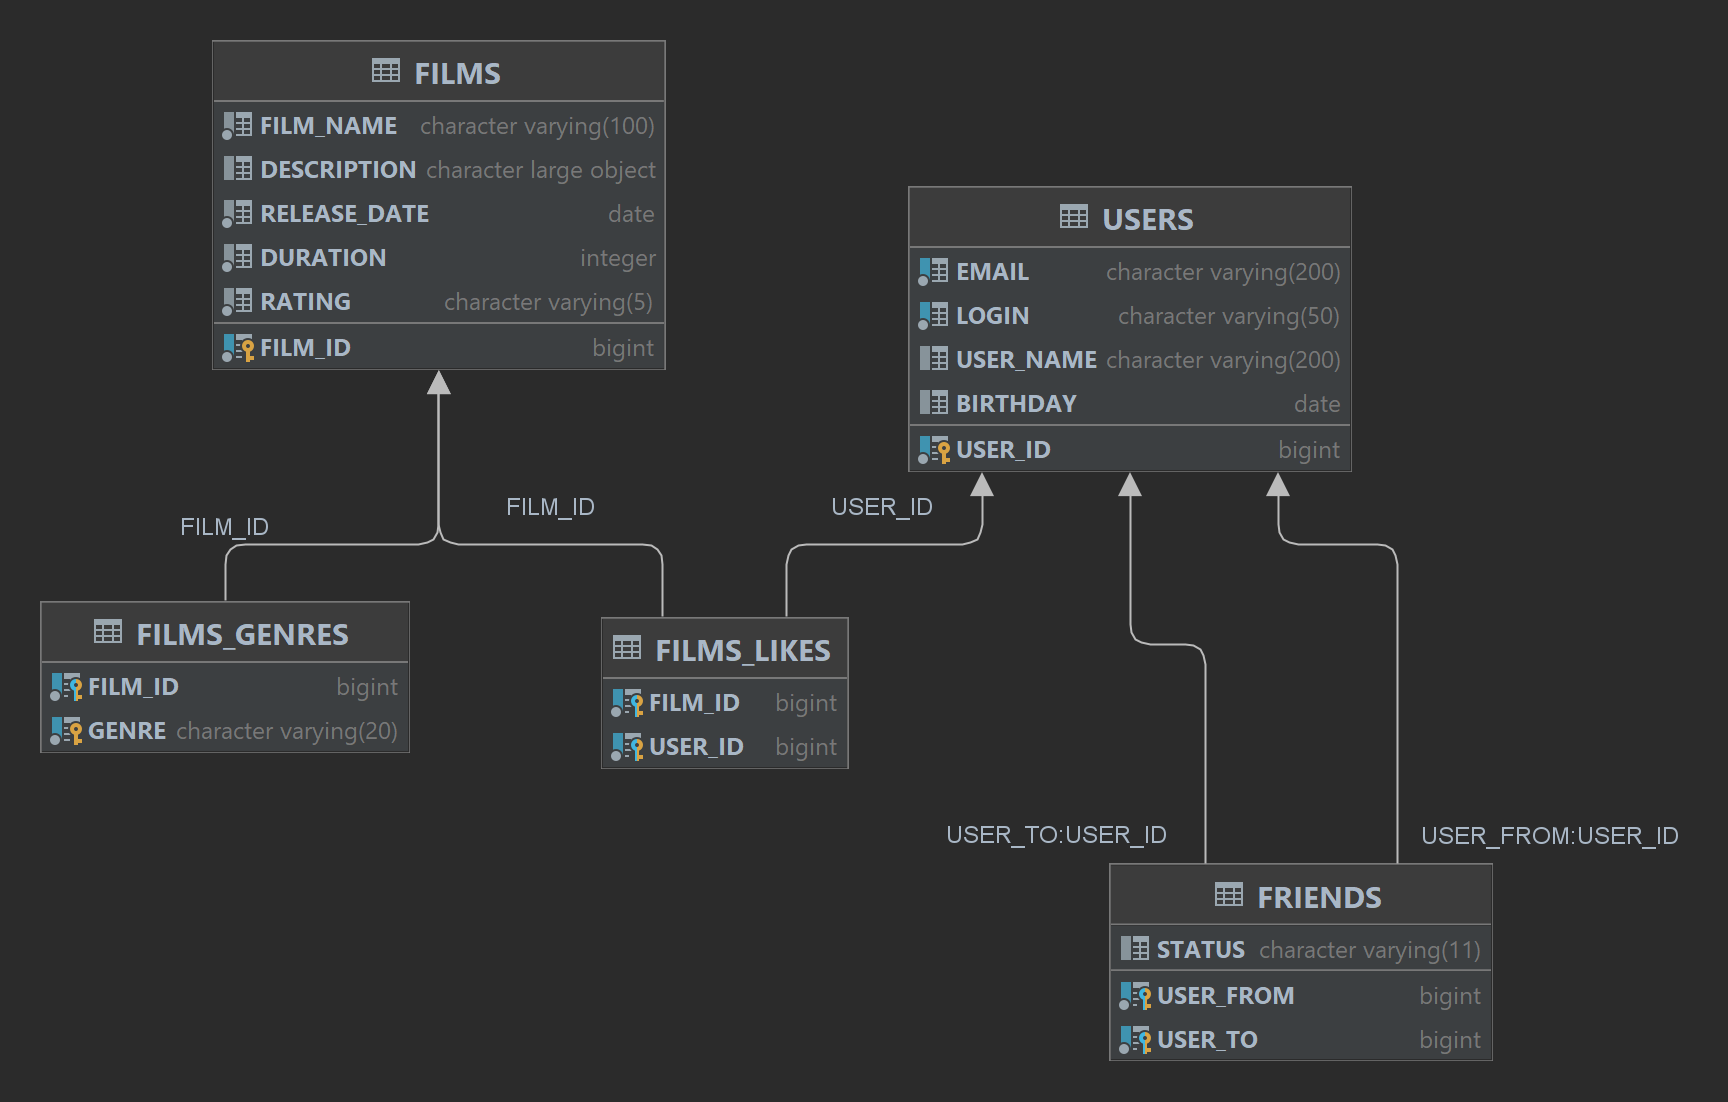
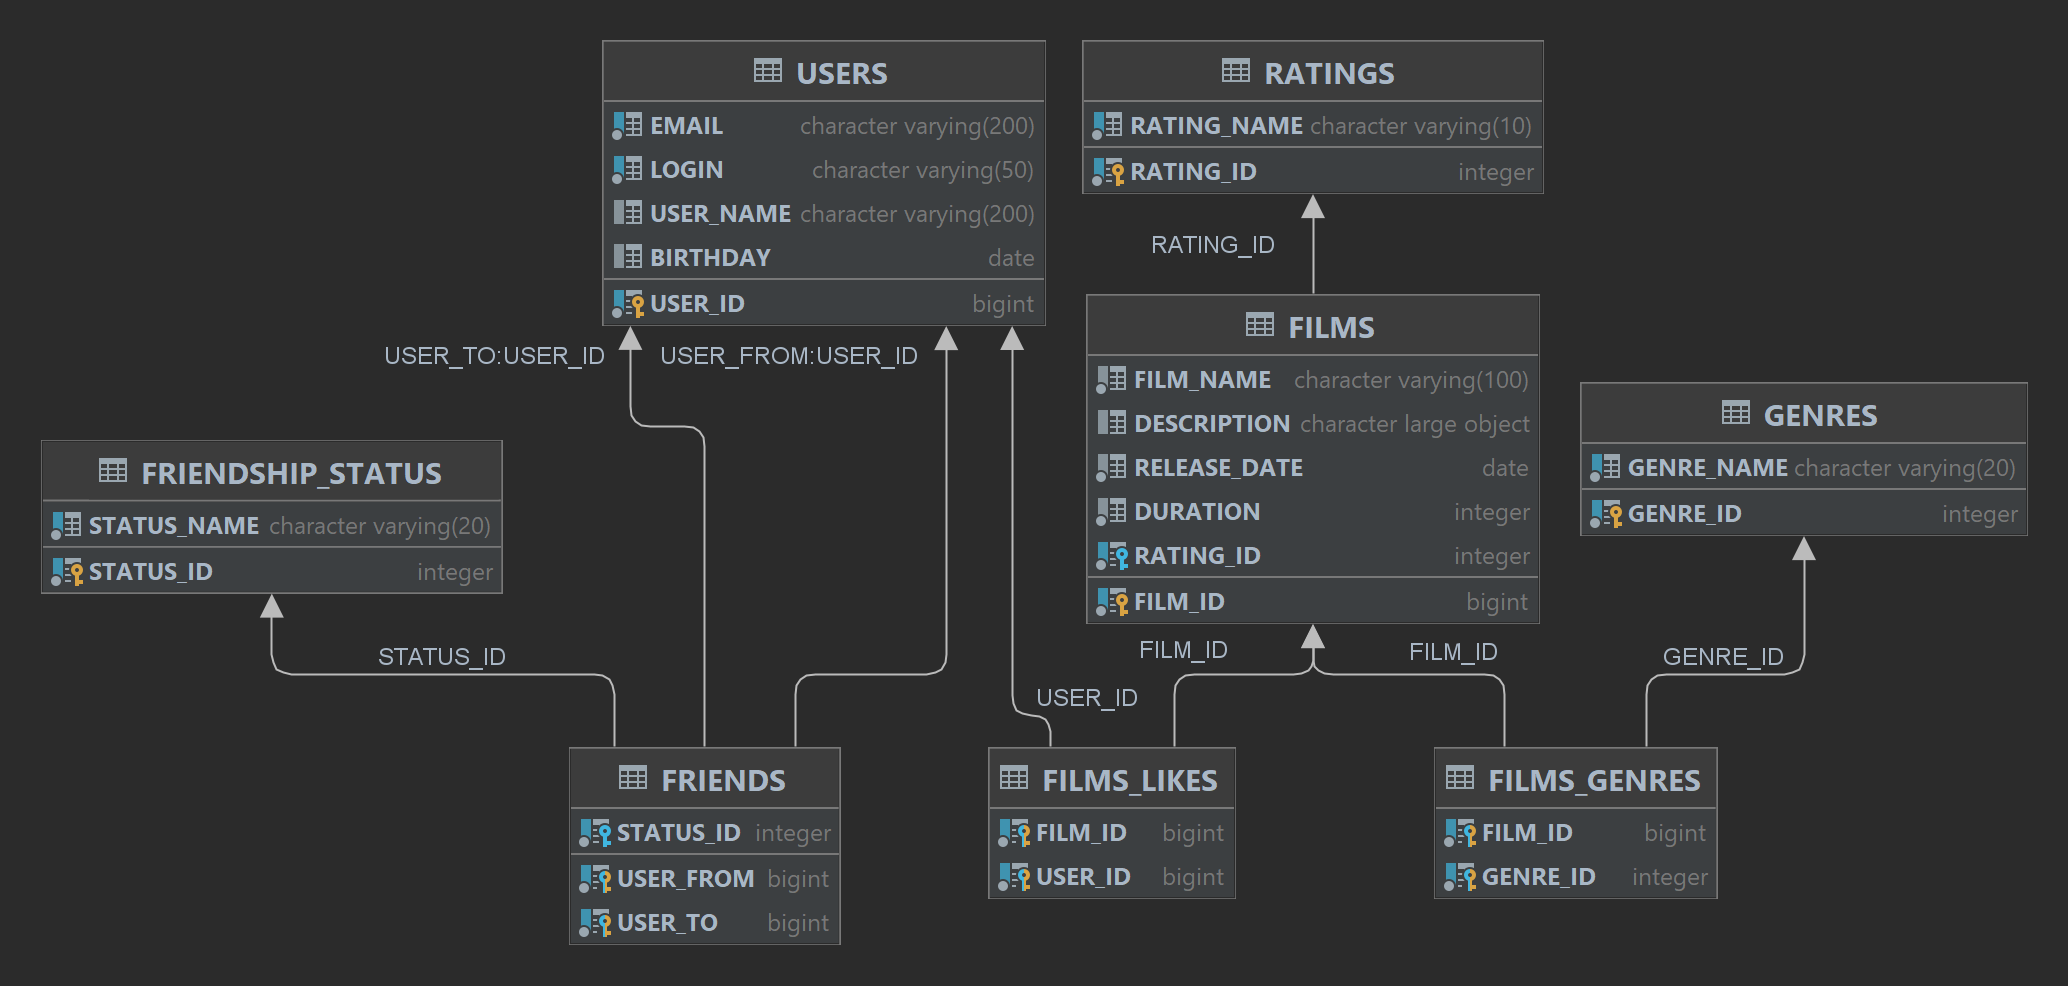
fix: Внести исправления в схему базы данных, файл README.md и исправить скрипт в файле scheme.sql.

diff --git a/README.md b/README.md
@@ -28,7 +28,7 @@ WHERE user_from = 1
 ```
 
 ### Список лайков фильмов
-Хранение списка лайков реализовано в таблице likes, где задан составной ключ из полей film_id и user_id.
+Хранение списка лайков реализовано в таблице LIKES, где задан составной ключ из полей FILM_ID и USER_ID.
 
 #### Пример запроса для получения таблицы с id фильма и соотвествующим ему количесвом лайков
 ```roomsql
@@ -51,11 +51,12 @@ LIMIT 5;
 ```
 
 ### Список жанров фильма
-Хранение жанров реализовано в таблице FILMS_GENRES, в которой использован составной ключ из полей FILM_ID и GENRE.
+Хранение жанров реализовано в таблице FILMS_GENRES, в которой использован составной ключ из полей FILM_ID и GENRE_ID.
 
 #### Пример запроса для получения списка жанров фильма с id = 1
 ```roomsql
-SELECT genre
-FROM films_genres
+SELECT g.genre_id, g.genre_name
+FROM films_genres AS fg
+JOIN genres AS g ON (fg.genre_id = g.genre_id)
 WHERE film_id = 1;
 ```
